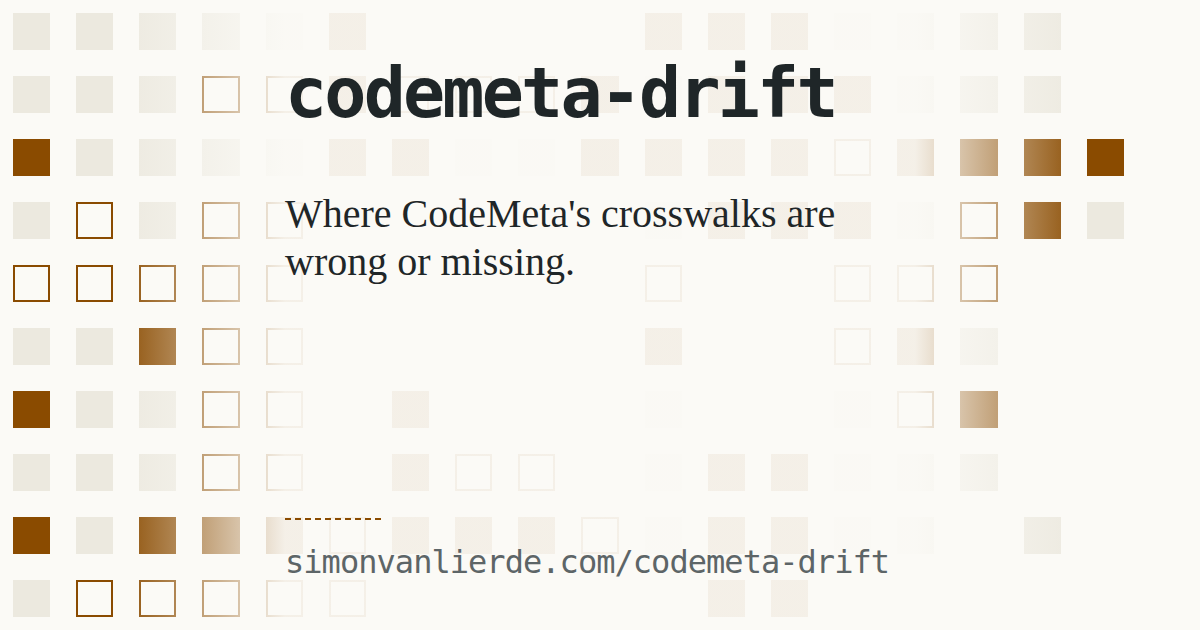
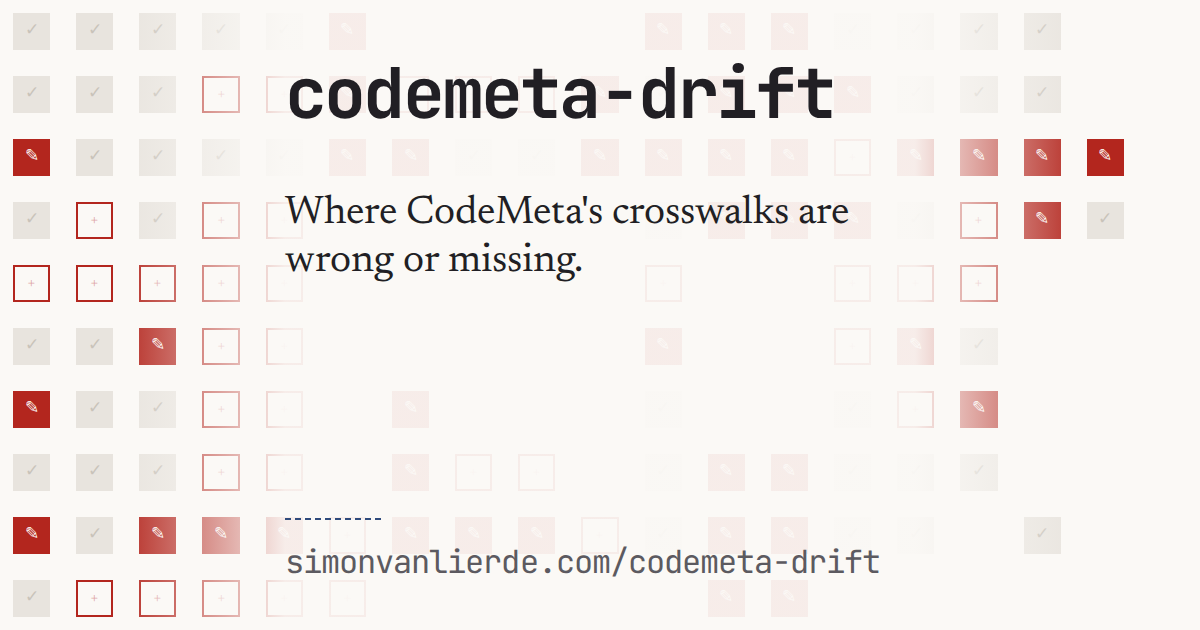
refactor(site): redraw the social card in proof red
- show the check, pencil and plus glyphs again, small and one tone off each cell's own colour
- use Newsreader and JetBrains Mono from site/fonts

diff --git a/docs/og-card.html b/docs/og-card.html
@@ -5,28 +5,32 @@
 <title>codemeta-drift social card</title>
 <!-- Source of site/og.png. Render: see README.md, "Social card". -->
 <style>
+  @font-face { font-family: Newsreader; src: url("../site/fonts/newsreader-latin-400-normal.woff2") format("woff2"); font-weight: 400; }
+  @font-face { font-family: "JetBrains Mono"; src: url("../site/fonts/jetbrains-mono-latin-400-normal.woff2") format("woff2"); font-weight: 400; }
+  @font-face { font-family: "JetBrains Mono"; src: url("../site/fonts/jetbrains-mono-latin-700-normal.woff2") format("woff2"); font-weight: 700; }
   :root {
-    --paper: #fbfaf6; --ink: #1f2628; --faint: #5d6567; --rule: #d9d6cc; --ochre: #8a4b00; --ochre-wash: #f6e7d2;
-    --serif: Charter, "Bitstream Charter", "Sitka Text", Cambria, "Iowan Old Style", Georgia, serif;
-    --mono: ui-monospace, "Cascadia Code", "Source Code Pro", Menlo, Consolas, "DejaVu Sans Mono", monospace;
+    --paper: #fbf9f6; --ink: #211f24; --faint: #5c5a60; --mark: #b3261e; --link: #2f4b7c; --asis: #e8e4de;
+    --serif: Newsreader, Charter, "Bitstream Charter", Cambria, Georgia, serif;
+    --mono: "JetBrains Mono", ui-monospace, Menlo, Consolas, "DejaVu Sans Mono", monospace;
   }
   * { box-sizing: border-box; margin: 0; }
   html, body { width: 1200px; height: 630px; overflow: hidden; background: var(--paper); color: var(--ink); }
-  /* The coverage matrix at full size, marks only, no glyphs: 19 CodeMeta terms across, 10 formats down, one cell each. */
+  /* The coverage matrix at full size: 19 CodeMeta terms across, 10 formats down, one cell each. */
   #m { position: absolute; inset: 0; display: grid; grid-template-columns: repeat(19, 1fr); grid-template-rows: repeat(10, 1fr); }
-  .c { margin: 13px; }
-  .o { background: #ece9df; }
-  .x { background: var(--ochre); }
-  .p { border: 2px solid var(--ochre); }
+  /* Glyphs are about 45% of the cell and one step off the cell's own tone: texture up close, gone at thumbnail size. */
+  .c { margin: 13px; display: grid; place-items: center; font: 400 17px/1 var(--serif); }
+  .o { background: var(--asis); color: #c9c3ba; }
+  .x { background: var(--mark); color: var(--paper); opacity: 1; }
+  .p { border: 2px solid var(--mark); color: #b3261e66; }
   .n { visibility: hidden; }
   /* A quiet field under the text; the matrix shows through it. Everything that carries meaning sits in the centred 630 px column. */
   main { position: absolute; z-index: 1; isolation: isolate; left: 285px; top: 0; width: 630px; height: 630px; }
   main::before { content: ""; position: absolute; inset: 0 -170px; z-index: -1;
-    background: linear-gradient(90deg, #fbfaf600, #fbfaf6f0 170px calc(100% - 170px), #fbfaf600); }
+    background: linear-gradient(90deg, #fbf9f600, #fbf9f6f0 170px calc(100% - 170px), #fbf9f600); }
   h1 { position: absolute; top: 58px; font: 700 70px/1 var(--mono); letter-spacing: -0.04em; }
   .job { position: absolute; top: 190px; font: 400 40px/1.2 var(--serif); width: 600px; }
   .url { position: absolute; bottom: 52px; font: 400 32px/1 var(--mono); color: var(--faint); letter-spacing: -0.03em; }
-  .url::before { content: ""; display: block; width: 96px; border-top: 2px dashed var(--ochre); margin-bottom: 26px; }
+  .url::before { content: ""; display: block; width: 96px; border-top: 2px dashed var(--link); margin-bottom: 26px; }
 </style>
 </head>
 <body>
@@ -42,7 +46,8 @@
 <script>
   const rows = ["ooooox----xxxoooo--", "oooppxpppxoxxxooo--", "xooooxxooxxxxpxxxx-", "opopp-----oxxxopxo-", "ppppp-----p--ppp---",
     "ooxpp-----x--pxo---", "xoopp-x---o--opx---", "ooopp-xpp-oxxooo---", "xoxxxpxxxpoxxoo-o--", "oppppp-----xx------"];
-  document.getElementById("m").innerHTML = rows.join("").split("").map((s) => `<div class="c ${s === "-" ? "n" : s}"></div>`).join("");
+  const mark = { o: "✓", x: "✎", p: "+", "-": "" };
+  document.getElementById("m").innerHTML = rows.join("").split("").map((s) => `<div class="c ${s === "-" ? "n" : s}">${mark[s]}</div>`).join("");
 </script>
 </body>
 </html>
